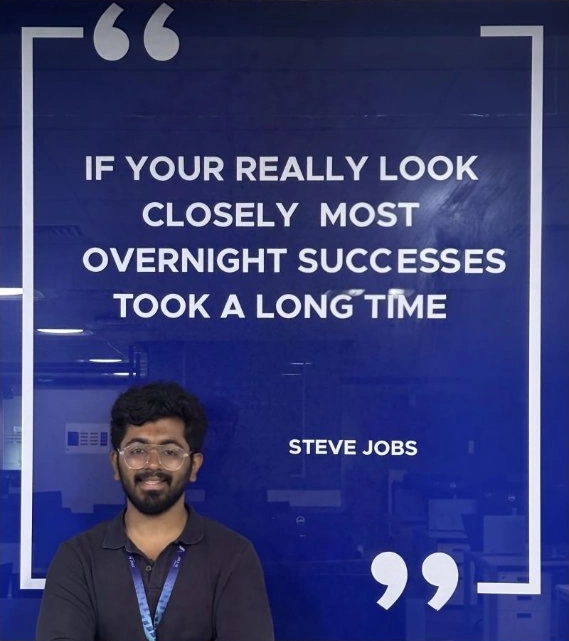
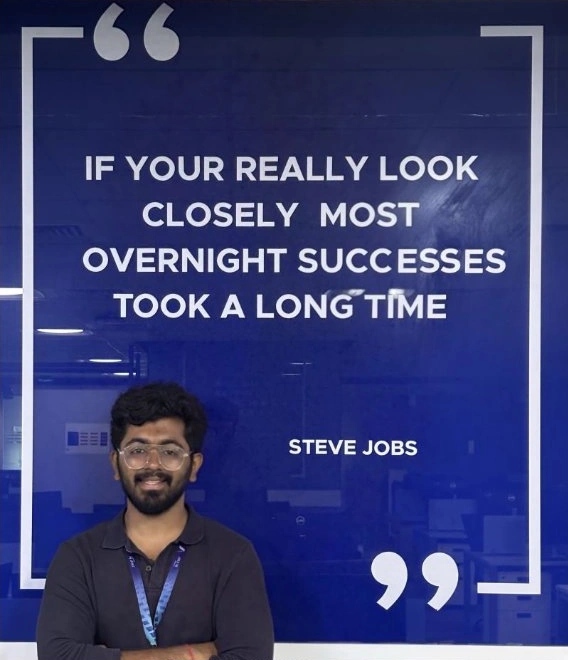
fix(images): lock exact native aspect ratios for on-site photos in about, experience, and education sections

diff --git a/src/components/sections/Experience.tsx b/src/components/sections/Experience.tsx
@@ -20,17 +20,17 @@ function JmanFieldDossier() {
     <div className="grid grid-cols-1 lg:grid-cols-12 gap-5 pt-1">
       {/* Left Column: Real-World On-Site Photograph & Steve Jobs Wall Quote */}
       <div className="lg:col-span-5 relative rounded-2xl overflow-hidden border border-white/10 bg-black/60 group/jman shadow-[0_15px_35px_-10px_rgba(0,0,0,0.9)] flex flex-col justify-between">
-        <div className="relative w-full aspect-[4/5] sm:aspect-[4/4.5] lg:aspect-[4/5] overflow-hidden">
+        <div className="relative w-full aspect-[568/660] overflow-hidden">
           <Image
             src="/images/jman-abhinay.webp"
             alt="Abhinay Musku on-site at JMAN Group office with Steve Jobs quote wall"
             fill
             priority
-            className="object-cover object-top filter contrast-105 brightness-95 group-hover/jman:scale-[1.02] group-hover/jman:brightness-100 transition-all duration-500"
+            className="object-cover object-center filter contrast-105 brightness-95 group-hover/jman:scale-[1.02] group-hover/jman:brightness-100 transition-all duration-500"
           />
           {/* Halftone & Vignette Overlays */}
-          <div className="absolute inset-0 halftone-dots opacity-20 pointer-events-none" />
-          <div className="absolute inset-0 bg-gradient-to-t from-black/95 via-black/35 to-black/30 pointer-events-none" />
+          <div className="absolute inset-0 halftone-dots opacity-15 pointer-events-none" />
+          <div className="absolute inset-0 bg-gradient-to-t from-black/60 via-transparent to-transparent pointer-events-none" />
 
           {/* Top Header Telemetry & Logo */}
           <div className="absolute top-3 left-3 right-3 flex items-center justify-between gap-2">
@@ -51,25 +51,15 @@ function JmanFieldDossier() {
             </div>
           </div>
 
-          {/* Bottom Steve Jobs Quote Callout & Role Stamp */}
-          <div className="absolute bottom-3 left-3 right-3 space-y-2 text-left">
-            <div className="p-3 rounded-xl bg-black/85 backdrop-blur-md border border-white/10 space-y-1.5 shadow-[0_4px_20px_rgba(0,0,0,0.8)]">
-              <p className="text-xs sm:text-sm text-zinc-100 font-medium italic leading-snug">
-                &ldquo;If you really look closely, most overnight successes took a long time.&rdquo;
-              </p>
-              <div className="flex items-center justify-between text-[10px] font-mono pt-1 border-t border-white/10">
-                <span className="text-[#ef4444] font-semibold tracking-wider uppercase">— STEVE JOBS (FACTS ONLY)</span>
-                <span className="text-zinc-400">JMAN HEADQUARTERS</span>
-              </div>
-            </div>
-
-            <div className="flex items-center justify-between text-[10px] font-mono text-zinc-300 px-1">
-              <span className="flex items-center gap-1.5 text-[#ef4444] font-semibold">
-                <span className="w-1.5 h-1.5 rounded-full bg-[#ef4444] animate-pulse" />
-                <span>DATA SLINGER</span>
-              </span>
-              <span className="text-zinc-400">MAY 2026 – PRESENT</span>
-            </div>
+          {/* Bottom Telemetry & Status Stamp (Clean overlay so Abhinay & Steve Jobs wall are 100% visible) */}
+          <div className="absolute bottom-3 left-3 right-3 flex items-center justify-between text-[10px] font-mono text-zinc-300">
+            <span className="flex items-center gap-1.5 px-2.5 py-1 rounded-md bg-black/85 backdrop-blur-md border border-white/10 text-[#ef4444] font-semibold">
+              <span className="w-1.5 h-1.5 rounded-full bg-[#ef4444] animate-pulse" />
+              <span>DATA SLINGER · JMAN FORGE</span>
+            </span>
+            <span className="px-2.5 py-1 rounded-md bg-black/85 backdrop-blur-md border border-white/10 text-zinc-400">
+              MAY 2026 – PRESENT
+            </span>
           </div>
         </div>
       </div>

diff --git a/src/components/sections/About.tsx b/src/components/sections/About.tsx
@@ -174,7 +174,15 @@ export default function About() {
                     {/* Verified Real-World Field Photograph */}
                     {beat.image && (
                       <div className="relative mt-2 rounded-xl overflow-hidden border border-white/10 group/photo bg-black/60 shadow-[0_10px_25px_-5px_rgba(0,0,0,0.8)]">
-                        <div className="relative w-full aspect-[16/10] sm:aspect-[16/9] overflow-hidden">
+                        <div
+                          className={`relative w-full ${
+                            idx === 1
+                              ? "aspect-[568/660]"
+                              : idx === 0
+                              ? "aspect-[835/568]"
+                              : "aspect-[865/587]"
+                          } overflow-hidden`}
+                        >
                           <Image
                             src={beat.image}
                             alt={beat.imageCaption || beat.title}
@@ -183,7 +191,7 @@ export default function About() {
                           />
                           {/* Spider-Verse Halftone & Cinematic Gradient Vignette */}
                           <div className="absolute inset-0 halftone-dots opacity-15 pointer-events-none" />
-                          <div className="absolute inset-0 bg-gradient-to-t from-black/85 via-black/20 to-transparent pointer-events-none" />
+                          <div className="absolute inset-0 bg-gradient-to-t from-black/50 via-transparent to-transparent pointer-events-none" />
 
                           {/* Top-Right Official Emblem */}
                           <div className="absolute top-2.5 right-2.5 flex items-center gap-1.5 px-2.5 py-1 rounded-md bg-black/75 backdrop-blur-md border border-white/10 text-[10px] font-mono text-zinc-300">

diff --git a/src/components/sections/Education.tsx b/src/components/sections/Education.tsx
@@ -82,7 +82,7 @@ export default function Education() {
                     >
                       {isBuildAI ? (
                         <>
-                          <div className="relative w-full md:w-56 aspect-[16/10] rounded-lg overflow-hidden shrink-0 border border-purple-500/20 group">
+                          <div className="relative w-full md:w-56 aspect-[865/587] rounded-lg overflow-hidden shrink-0 border border-purple-500/20 group">
                             <Image
                               src="/images/hackathon-swecha-team.webp"
                               alt="BuildAI4India Hackathon Winners"

diff --git a/src/components/sections/HeroStats.tsx b/src/components/sections/HeroStats.tsx
@@ -209,3 +209,4 @@ export default function HeroStats() {
     </motion.div>
   );
 }
+
